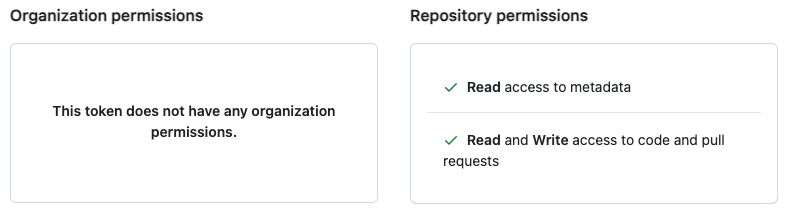
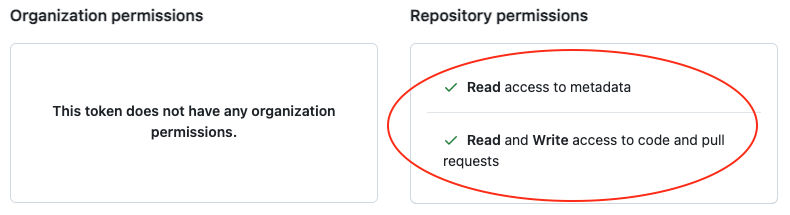
docs: update README to improve readability

diff --git a/README.md b/README.md
@@ -9,13 +9,11 @@ If you are already using `pre-commit` or you are planning to use `pre-commit` to
 
 ## 🪜 Prerequisites
 ```
-* GitHub
-  □ create an account.
-  □ create a fine-grained personal access token with appropriate permissions.
-  (see attachment below)
-
 * Python (3.12+)
   □ install update-pre-commit.
+
+* GitHub
+  □ create a fine-grained token with repository permissions (see below).
 ```
 
 ![GitHub Token Permission](assets/github_token-permissions.png)
@@ -24,7 +22,9 @@ If you are already using `pre-commit` or you are planning to use `pre-commit` to
 
 ## 🔆 Install update-pre-commit
 
-In the examples below, we install **update-pre-commit** on a project named `hello-world` in a virtual environment named after the project.
+We use a GitHub project named `hello-world` in the command-line examples below.  This project has `pre-commit` installed and a valid `.pre-commit-config.yaml`.
+
+We will first install **update-pre-commit** in a virtual environment named after the project.  Next, we will show the results of running **update-pre-commit** with different options.
 
 ```
 ~/work/hello-world $ workon hello-world
@@ -36,7 +36,7 @@ In the examples below, we install **update-pre-commit** on a project named `hell
 
 ## 🔍 Using update-pre-commit
 
-🏃 _**Run to show command line usage and options**_
+🏃 _**Run to show command line usage and options**_: `--help`
 ```
 (hello-world) ~/work/hello-world $ update-pre-commit --help
 
@@ -51,7 +51,7 @@ Options:
 
 <br>
 
-🏃 _**Run to show version**_
+🏃 _**Run to show version**_: `--version`
 ```
 (hello-world) ~/work/hello-world $ update-pre-commit --version
 update-pre-commit, version 1.0.0
@@ -59,9 +59,9 @@ update-pre-commit, version 1.0.0
 
 <br>
 
-🏃 _**Run without any options**_
+🏃 _**Run to produce a list of out-of-date hooks**_: `--dry-run true`
 
-**update-pre-commit** implicitly runs with the option `--dry-run true` and does the following:
+The option `--dry-run true` is run by default and does the following:
 1. read the `.pre-commit-config.yaml`.
 1. produce a list of out-of-date pre-commit hooks.
 
@@ -79,12 +79,12 @@ Update revs in .pre-commit-config.yaml: None
 
 <br>
 
-🏃 _**Run with `--dry-run false` option**_
+🏃 _**Run to produce a list of out-of-date hooks and a PR**_: `--dry-run false`
 
-**update-pre-commit** runs with the option `--dry-run false` and does the following:
+The option `--dry-run false` does the following:
 1. read the `.pre-commit-config.yaml`.
 1. produce a list of out-of-date pre-commit hooks.
-1. checkout a new git branch `update_pre_commit_01JV8P09N4G5K9Q4DDD533ARBH`.
+1. checkout a new git branch `update_pre_commit_XXXXXXXXXXXXXXXXXXXXX`.
 1. update hooks rev inside `.pre-commit-config.yaml`.
 1. create a pull request against repository default branch.
 
